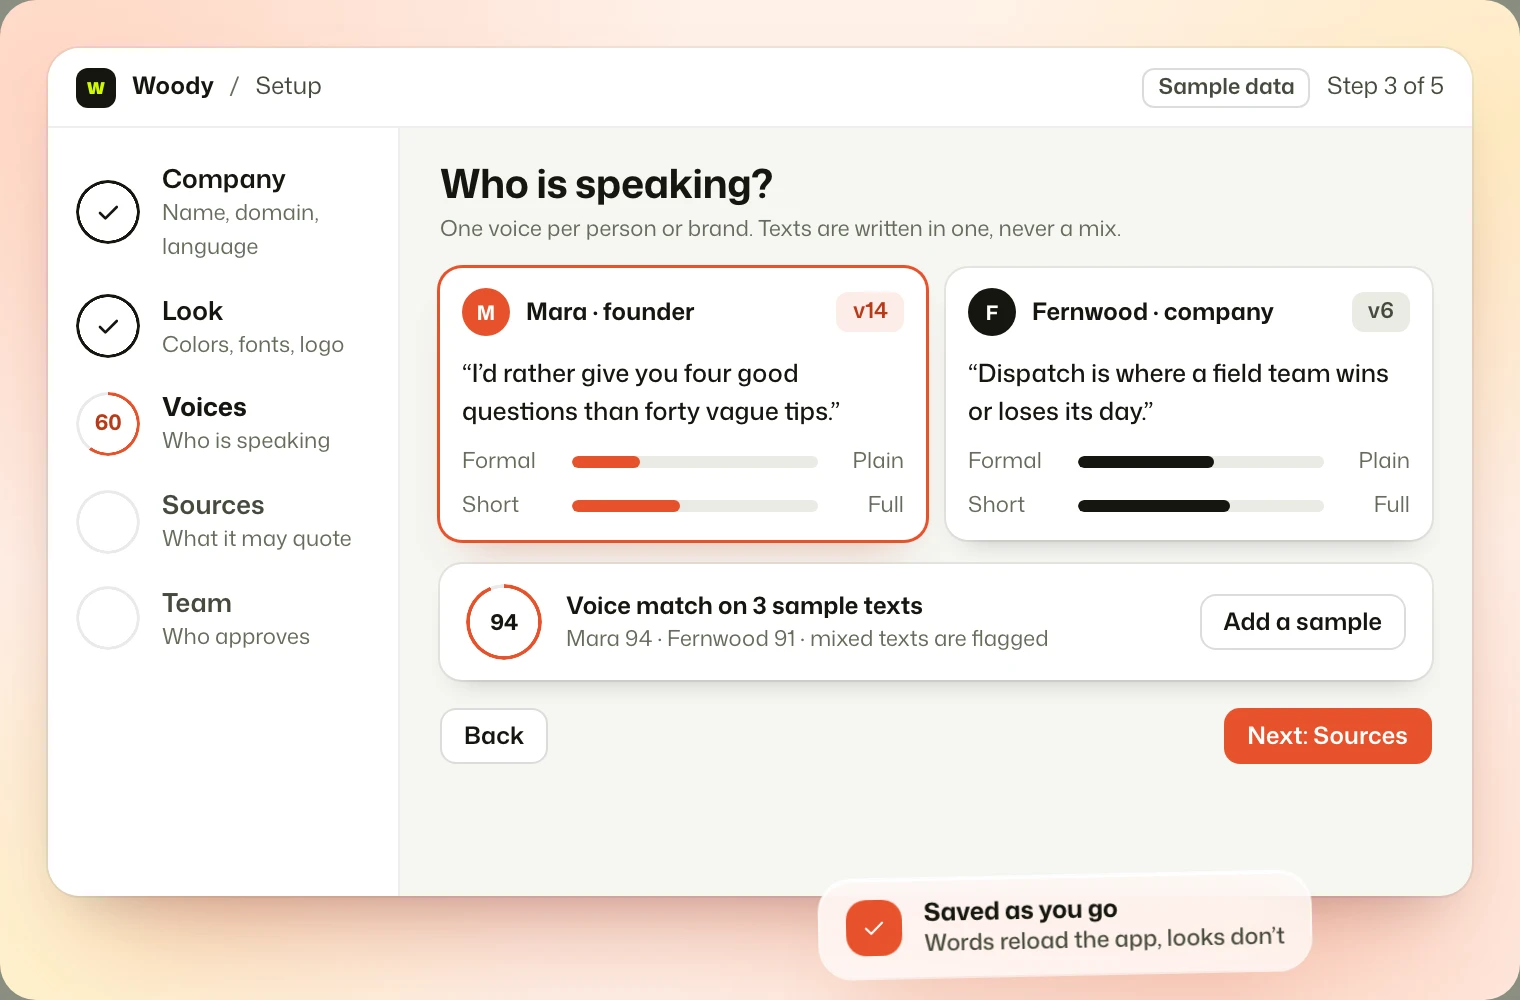
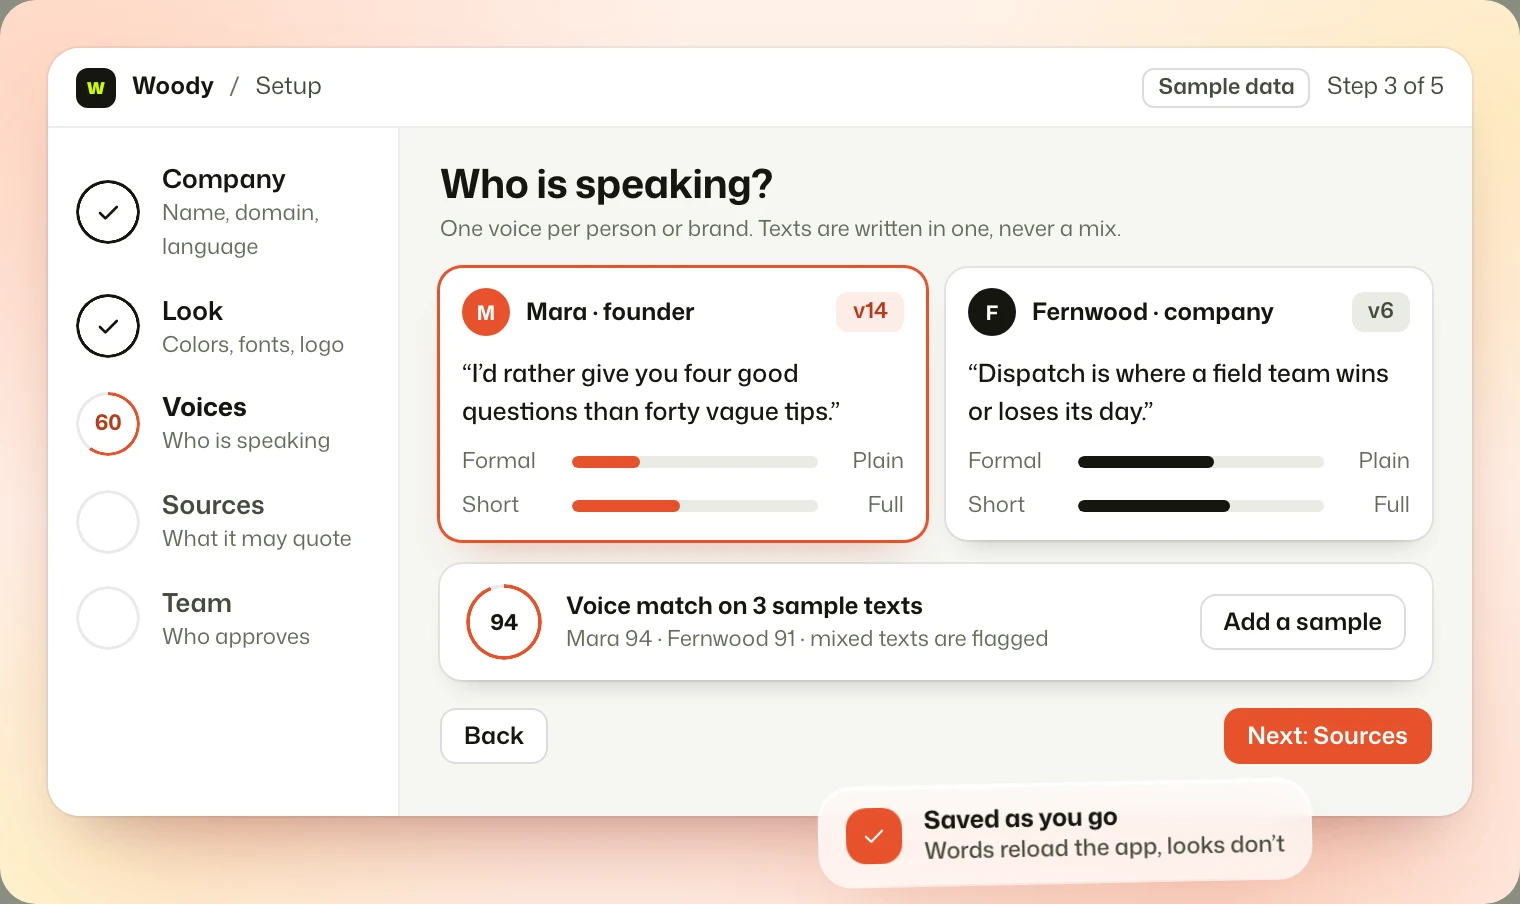
fix(revolution): Woody strategy gets a review list, setup loses its empty foot
Strategy: the chapters panel ended halfway down the window. It now lists the four
pages waiting for review, matching the phone crop. Setup: window and stage end
where the content ends (1520 x 904).

diff --git a/public/revolution/work.html b/public/revolution/work.html
@@ -2878,7 +2878,7 @@ html[data-mode="dark"] .pl3 img.pl3__tm[alt="Apollo"]{filter:invert(1)}
 <!-- /v4-cases -->
 <!-- real-screens -->
 <section class="s hm v4s rs" id="screens" data-theme="dark"><div class="c2"><div class="tl"><div class="hd"><span class="eyebrow chp">Screens</span><h2 data-split="lime">Tools<span>in use</span></h2></div><p class="pp">Sixteen screens from tools I use and build. Every number and name is sample data. The layouts, states and labels are the real ones.</p></div>
-<div class="rs__g"><div class="rs__hd"><h3>Woody</h3><p>Content Studio. Texts in a person's own voice, every claim tied to a source, a named person approving each version.</p></div><ul class="rs__rail" role="region" aria-label="Woody screens" tabindex="0"><li><figure><picture><source media="(max-width:640px)" srcset="assets/real/ui-woody-studio-m.webp" width="716" height="1060"><img src="assets/real/ui-woody-studio.webp" alt="Woody studio: a prompt, voice and channel options, and four texts waiting for review" width="1520" height="1000" loading="lazy" decoding="async"></picture><figcaption><b>Studio</b><span>One prompt, a voice and a channel. Four texts wait for a decision.</span></figcaption></figure></li><li><figure><picture><source media="(max-width:640px)" srcset="assets/real/ui-woody-review-m.webp" width="716" height="1028"><img src="assets/real/ui-woody-review.webp" alt="Woody review: a draft with struck-out phrases, a checklist and an approve button" width="1520" height="1000" loading="lazy" decoding="async"></picture><figcaption><b>Review</b><span>A draft with the edits shown. The reviewer checks voice, sources and client names, then approves.</span></figcaption></figure></li><li><figure><picture><source media="(max-width:640px)" srcset="assets/real/ui-woody-strategy-m.webp" width="716" height="1212"><img src="assets/real/ui-woody-strategy.webp" alt="Woody strategy: a grid of 42 book pages by status and a list of chapters with progress" width="1520" height="1000" loading="lazy" decoding="async"></picture><figcaption><b>Strategy</b><span>A 42-page content book, 18 pages ready. Next up is Benchmarks, page 5.</span></figcaption></figure></li><li><figure><picture><source media="(max-width:640px)" srcset="assets/real/ui-woody-texts-m.webp" width="716" height="1200"><img src="assets/real/ui-woody-texts.webp" alt="Woody texts: a table of 38 texts with channel, voice, status and checks" width="1520" height="1000" loading="lazy" decoding="async"></picture><figcaption><b>Texts</b><span>38 texts with channel, voice, status and checks. One claim without a source is held back.</span></figcaption></figure></li><li><figure><picture><source media="(max-width:640px)" srcset="assets/real/ui-woody-calendar-m.webp" width="716" height="984"><img src="assets/real/ui-woody-calendar.webp" alt="Woody calendar: a month view with scheduled texts and a list of unscheduled ones" width="1520" height="1000" loading="lazy" decoding="async"></picture><figcaption><b>Calendar</b><span>Seven texts scheduled this month, three still unscheduled. Drag a text onto a day.</span></figcaption></figure></li><li><figure><picture><source media="(max-width:640px)" srcset="assets/real/ui-woody-sources-m.webp" width="716" height="1172"><img src="assets/real/ui-woody-sources.webp" alt="Woody sources: documents, notes and links with state, and claims taken from one source" width="1520" height="1000" loading="lazy" decoding="async"></picture><figcaption><b>Sources</b><span>96% of claims trace to a source. One source cannot be opened and holds its text back.</span></figcaption></figure></li><li><figure><picture><source media="(max-width:640px)" srcset="assets/real/ui-woody-setup-m.webp" width="716" height="1076"><img src="assets/real/ui-woody-setup.webp" alt="Woody setup: a voice with formal and short sliders and a voice match score" width="1520" height="1000" loading="lazy" decoding="async"></picture><figcaption><b>Setup</b><span>One voice per person or brand, scored by how well it matches three sample texts.</span></figcaption></figure></li><li><figure><picture><source media="(max-width:640px)" srcset="assets/real/ui-woody-licenses-m.webp" width="716" height="1200"><img src="assets/real/ui-woody-licenses.webp" alt="Woody control: a list of licenses with seats, state and last heartbeat" width="1520" height="1000" loading="lazy" decoding="async"></picture><figcaption><b>Licenses</b><span>The control app: seats, state and last heartbeat per customer. One license ends in nine days.</span></figcaption></figure></li><li><figure><picture><source media="(max-width:640px)" srcset="assets/real/ui-woody-license-m.webp" width="716" height="988"><img src="assets/real/ui-woody-license.webp" alt="Woody control: one ended license with seats, key, last heartbeat and a read-only notice" width="1520" height="1000" loading="lazy" decoding="async"></picture><figcaption><b>One license</b><span>An ended license keeps texts readable and pauses saving. Nothing is deleted.</span></figcaption></figure></li></ul></div>
+<div class="rs__g"><div class="rs__hd"><h3>Woody</h3><p>Content Studio. Texts in a person's own voice, every claim tied to a source, a named person approving each version.</p></div><ul class="rs__rail" role="region" aria-label="Woody screens" tabindex="0"><li><figure><picture><source media="(max-width:640px)" srcset="assets/real/ui-woody-studio-m.webp" width="716" height="1060"><img src="assets/real/ui-woody-studio.webp" alt="Woody studio: a prompt, voice and channel options, and four texts waiting for review" width="1520" height="1000" loading="lazy" decoding="async"></picture><figcaption><b>Studio</b><span>One prompt, a voice and a channel. Four texts wait for a decision.</span></figcaption></figure></li><li><figure><picture><source media="(max-width:640px)" srcset="assets/real/ui-woody-review-m.webp" width="716" height="1028"><img src="assets/real/ui-woody-review.webp" alt="Woody review: a draft with struck-out phrases, a checklist and an approve button" width="1520" height="1000" loading="lazy" decoding="async"></picture><figcaption><b>Review</b><span>A draft with the edits shown. The reviewer checks voice, sources and client names, then approves.</span></figcaption></figure></li><li><figure><picture><source media="(max-width:640px)" srcset="assets/real/ui-woody-strategy-m.webp" width="716" height="1212"><img src="assets/real/ui-woody-strategy.webp" alt="Woody strategy: a grid of 42 book pages by status and a list of chapters with progress" width="1520" height="1000" loading="lazy" decoding="async"></picture><figcaption><b>Strategy</b><span>A 42-page content book, 18 pages ready. Next up is Benchmarks, page 5.</span></figcaption></figure></li><li><figure><picture><source media="(max-width:640px)" srcset="assets/real/ui-woody-texts-m.webp" width="716" height="1200"><img src="assets/real/ui-woody-texts.webp" alt="Woody texts: a table of 38 texts with channel, voice, status and checks" width="1520" height="1000" loading="lazy" decoding="async"></picture><figcaption><b>Texts</b><span>38 texts with channel, voice, status and checks. One claim without a source is held back.</span></figcaption></figure></li><li><figure><picture><source media="(max-width:640px)" srcset="assets/real/ui-woody-calendar-m.webp" width="716" height="984"><img src="assets/real/ui-woody-calendar.webp" alt="Woody calendar: a month view with scheduled texts and a list of unscheduled ones" width="1520" height="1000" loading="lazy" decoding="async"></picture><figcaption><b>Calendar</b><span>Seven texts scheduled this month, three still unscheduled. Drag a text onto a day.</span></figcaption></figure></li><li><figure><picture><source media="(max-width:640px)" srcset="assets/real/ui-woody-sources-m.webp" width="716" height="1172"><img src="assets/real/ui-woody-sources.webp" alt="Woody sources: documents, notes and links with state, and claims taken from one source" width="1520" height="1000" loading="lazy" decoding="async"></picture><figcaption><b>Sources</b><span>96% of claims trace to a source. One source cannot be opened and holds its text back.</span></figcaption></figure></li><li><figure><picture><source media="(max-width:640px)" srcset="assets/real/ui-woody-setup-m.webp" width="716" height="1076"><img src="assets/real/ui-woody-setup.webp" alt="Woody setup: a voice with formal and short sliders and a voice match score" width="1520" height="904" loading="lazy" decoding="async"></picture><figcaption><b>Setup</b><span>One voice per person or brand, scored by how well it matches three sample texts.</span></figcaption></figure></li><li><figure><picture><source media="(max-width:640px)" srcset="assets/real/ui-woody-licenses-m.webp" width="716" height="1200"><img src="assets/real/ui-woody-licenses.webp" alt="Woody control: a list of licenses with seats, state and last heartbeat" width="1520" height="1000" loading="lazy" decoding="async"></picture><figcaption><b>Licenses</b><span>The control app: seats, state and last heartbeat per customer. One license ends in nine days.</span></figcaption></figure></li><li><figure><picture><source media="(max-width:640px)" srcset="assets/real/ui-woody-license-m.webp" width="716" height="988"><img src="assets/real/ui-woody-license.webp" alt="Woody control: one ended license with seats, key, last heartbeat and a read-only notice" width="1520" height="1000" loading="lazy" decoding="async"></picture><figcaption><b>One license</b><span>An ended license keeps texts readable and pauses saving. Nothing is deleted.</span></figcaption></figure></li></ul></div>
 <div class="rs__g"><div class="rs__hd"><h3>Growth analytics</h3><p>Cohorts, funnels and an action plan on mature data. Cohorts that are still open stay grey.</p></div><ul class="rs__rail" role="region" aria-label="Growth analytics screens" tabindex="0"><li><figure><picture><source media="(max-width:640px)" srcset="assets/real/ui-b2c-summary-m.webp" width="716" height="1132"><img src="assets/real/ui-b2c-summary.webp" alt="Growth analytics summary: new patients, 90-day return, per-patient revenue and a cohort line chart" width="1520" height="1000" loading="lazy" decoding="async"></picture><figcaption><b>Summary</b><span>Volume up 43%, 90-day return down 6.6 points. Only cohorts old enough to count are counted.</span></figcaption></figure></li><li><figure><picture><source media="(max-width:640px)" srcset="assets/real/ui-b2c-cohorts-m.webp" width="716" height="1080"><img src="assets/real/ui-b2c-cohorts.webp" alt="Growth analytics cohorts: a heat table of return by monthly cohort" width="1520" height="1000" loading="lazy" decoding="async"></picture><figcaption><b>Cohorts</b><span>Safari on mobile fell to 12% at day 90, 11 points under the others, from the March cohort.</span></figcaption></figure></li><li><figure><picture><source media="(max-width:640px)" srcset="assets/real/ui-b2c-funnel-m.webp" width="716" height="988"><img src="assets/real/ui-b2c-funnel.webp" alt="Growth analytics funnel: bars from product to paid and a phone showing a dead pay button" width="1520" height="1000" loading="lazy" decoding="async"></picture><figcaption><b>Funnel</b><span>36% reach payment, 14% pay on Safari mobile. The pay button does nothing and shows no error.</span></figcaption></figure></li><li><figure><picture><source media="(max-width:640px)" srcset="assets/real/ui-b2c-action-plan-m.webp" width="716" height="1096"><img src="assets/real/ui-b2c-action-plan.webp" alt="Growth analytics action plan: a table of actions with owner, effort, impact and status" width="1520" height="1000" loading="lazy" decoding="async"></picture><figcaption><b>Action plan</b><span>Fix the Safari payment step first: about 1,670 bookings a month. Every action has an owner and an effort.</span></figcaption></figure></li></ul></div>
 <div class="rs__g"><div class="rs__hd"><h3>Relora</h3><p>A relationship tool: who knows whom, and outreach drafts that wait for approval.</p></div><ul class="rs__rail" role="region" aria-label="Relora screens" tabindex="0"><li><figure><picture><source media="(max-width:640px)" srcset="assets/real/ui-relora-graph-m.webp" width="716" height="1040"><img src="assets/real/ui-relora-graph.webp" alt="Relora relationship graph with the shortest path to one contact" width="1520" height="1000" loading="lazy" decoding="async"></picture><figcaption><b>Relationships</b><span>The shortest path to a contact in two steps, through someone who knows them. Nothing is sent without you.</span></figcaption></figure></li><li><figure><picture><source media="(max-width:640px)" srcset="assets/real/ui-relora-brief-m.webp" width="716" height="920"><img src="assets/real/ui-relora-brief.webp" alt="Relora contact brief: facts, notes, an email draft awaiting approval and a timeline" width="1520" height="1000" loading="lazy" decoding="async"></picture><figcaption><b>Contact brief</b><span>Public facts, private context and an email draft waiting for approval. Private notes stay private.</span></figcaption></figure></li></ul></div>
 <div class="rs__g"><div class="rs__hd"><h3>Recruitify</h3><p>A private build: a job search board with a fit score on every role.</p></div><ul class="rs__rail" role="region" aria-label="Recruitify screens" tabindex="0"><li><figure><picture><source media="(max-width:640px)" srcset="assets/real/ui-recruit-board-m.webp" width="716" height="1044"><img src="assets/real/ui-recruit-board.webp" alt="Recruitify board: roles in columns from saved to offer with fit scores" width="1520" height="1000" loading="lazy" decoding="async"></picture><figcaption><b>Board</b><span>Roles by stage, each with a fit score. Two interviews this week.</span></figcaption></figure></li></ul></div>
